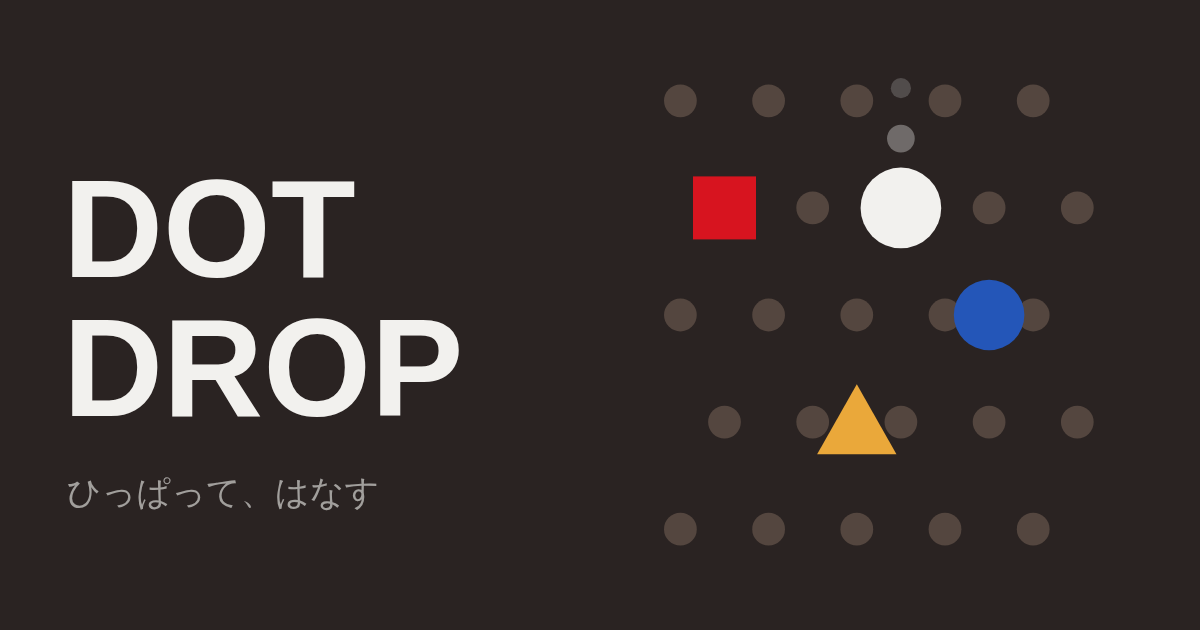
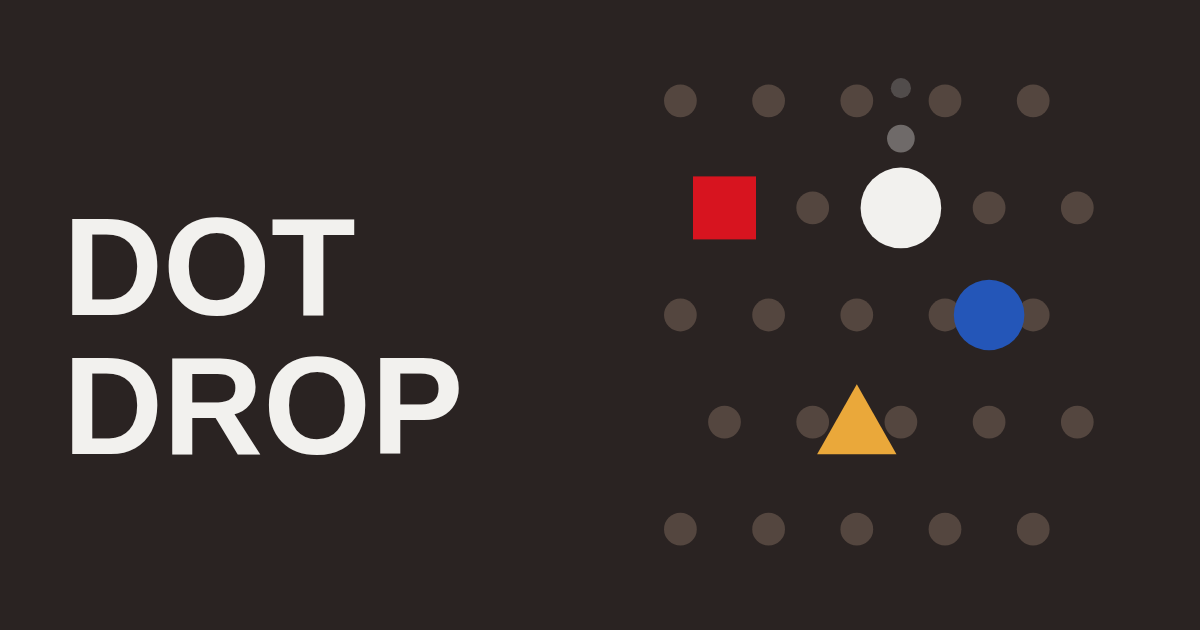
「ひっぱって、はなす」のコピーをやめる
リンクを送ったときの絵と、説明文の3か所から外した。
絵は名前だけになったので、上下の真ん中に置き直した。

ゲームの中に出る「引っ張ってはなす」は操作の説明なので残している。

Claude-Session: https://claude.ai/code/session_01X7XEWYvSc89TFVxjzw9szv

Changed region(s): [[0.0617, 0.2714, 0.4008, 0.7238], [0.0617, 0.754, 0.185, 0.8143], [0.2158, 0.754, 0.3083, 0.8143]]

diff --git a/index.html b/index.html
@@ -6,7 +6,7 @@
 <meta name="apple-mobile-web-app-capable" content="yes">
 <meta name="viewport" content="width=device-width,initial-scale=1,maximum-scale=1,user-scalable=no,viewport-fit=cover">
 <title>DOT DROP</title>
-<meta name="description" content="ひっぱって、はなす。玉を打って点を集めるスマートボール。ブラウザですぐ遊べます。">
+<meta name="description" content="玉を打って点を集めるスマートボール。ブラウザですぐ遊べます。">
 <!-- ホーム画面に追加したときのアイコン -->
 <link rel="apple-touch-icon" href="icon-180.png">
 <link rel="icon" type="image/png" href="icon-192.png">
@@ -15,7 +15,7 @@
 <meta property="og:type" content="website">
 <meta property="og:site_name" content="DOT DROP">
 <meta property="og:title" content="DOT DROP">
-<meta property="og:description" content="ひっぱって、はなす。玉を打って点を集めるスマートボール。">
+<meta property="og:description" content="玉を打って点を集めるスマートボール。">
 <meta property="og:url" content="https://snaproom1992.github.io/dotdrop/">
 <meta property="og:image" content="https://snaproom1992.github.io/dotdrop/ogp.png">
 <meta property="og:image:width" content="1200">
